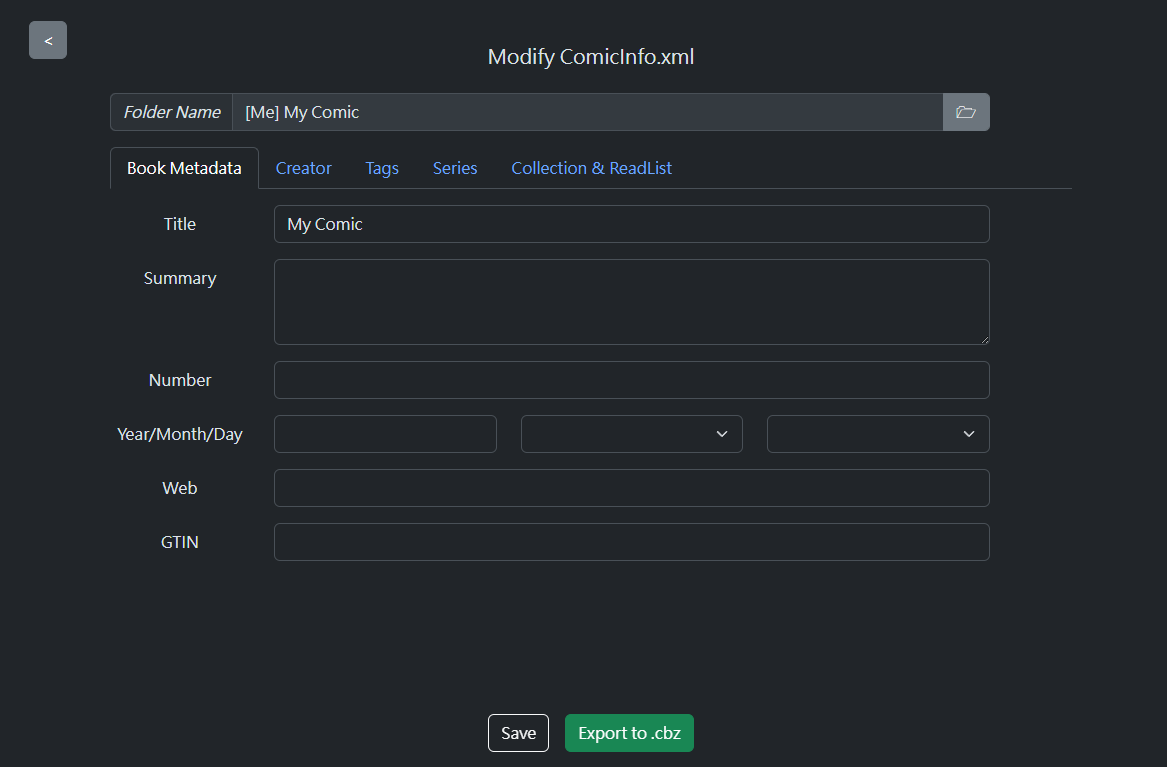
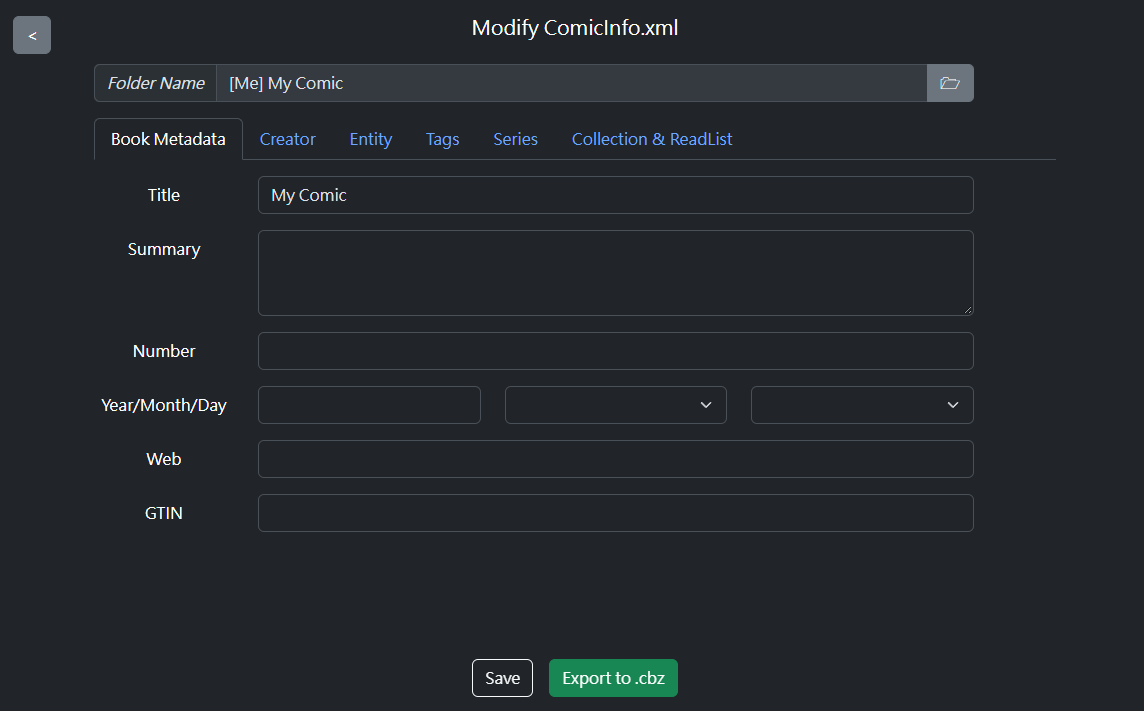
New tab for edit Characters, Teams, Locations (#218)
* Create new metadata tab for entity

* Update README and screenshots for new tab

diff --git a/frontend/src/pages/metadata/EntityMetadata.tsx b/frontend/src/pages/metadata/EntityMetadata.tsx
@@ -1,0 +1,54 @@
+// React Component
+import { Form } from "react-bootstrap";
+
+// Project Specified Component
+import OptionFormRow from "@/forms/OptionFormRow";
+import { type MetadataProps } from "@/pages/metadata/MetadataProps";
+import { HistoryResp } from "@bindings/services";
+
+/**
+ * Dummy function to return empty options for default options in `OptionFormRow`.
+ * @returns promise to return an empty `HistoryResp`
+ */
+function emptyOptions(): Promise<HistoryResp> {
+    return new Promise<HistoryResp>((resolve) => {
+        const resp = new HistoryResp();
+        resp.Inputs = [];
+        resp.ErrorMsg = "";
+
+        resolve(resp);
+    });
+}
+
+/** The JSX Element for show/edit entity metadata. */
+export default function EntityMetadata({ comicInfo: info, infoSetter }: Readonly<MetadataProps>) {
+    return (
+        <div>
+            <Form>
+                <OptionFormRow
+                    title={"Characters"}
+                    value={info?.Characters}
+                    setValue={(val) => infoSetter("Characters", val)}
+                    getDefaultOpt={emptyOptions}
+                    componentHeight="120px"
+                />
+
+                <OptionFormRow
+                    title={"Teams"}
+                    value={info?.Teams}
+                    setValue={(val) => infoSetter("Teams", val)}
+                    getDefaultOpt={emptyOptions}
+                    componentHeight="120px"
+                />
+
+                <OptionFormRow
+                    title={"Locations"}
+                    value={info?.Locations}
+                    setValue={(val) => infoSetter("Locations", val)}
+                    getDefaultOpt={emptyOptions}
+                    componentHeight="120px"
+                />
+            </Form>
+        </div>
+    );
+}

diff --git a/frontend/src/pages/InputComicInfoPage.tsx b/frontend/src/pages/InputComicInfoPage.tsx
@@ -8,6 +8,7 @@ import FolderNameDisplay from "@/components/FolderDisplay";
 import { type ModalControl } from "@/controls/ModalControl";
 import BookMetadata from "@/pages/metadata/BookMetadata";
 import CreatorMetadata from "@/pages/metadata/CreatorMetadata";
+import EntityMetadata from "@/pages/metadata/EntityMetadata";
 import MiscMetadata from "@/pages/metadata/MiscMetadata";
 import SeriesMetadata from "@/pages/metadata/SeriesMetadata";
 import TagMetadata from "@/pages/metadata/TagMetadata";
@@ -80,6 +81,10 @@ export default function InputComicInfoPage({
 
                 <Tab eventKey="Creator" title="Creator">
                     <CreatorMetadata comicInfo={comicInfo} infoSetter={infoSetter} />
+                </Tab>
+
+                <Tab eventKey="Entity" title="Entity">
+                    <EntityMetadata comicInfo={comicInfo} infoSetter={infoSetter} />
                 </Tab>
 
                 <Tab eventKey="Tags" title="Tags">

diff --git a/README.md b/README.md
@@ -18,6 +18,7 @@ Currently, this project supports fields:
 
 - `Title`, `Number`, `Summary`, `Year/Month/Day`, `Web`, `GTIN`
 - ALL Creator fields: `Writer`, `Translator` .etc
+- `Characters`, `Teams`, `Locations` (Notable Entity)
 - `Tags` with GUI to edit & view
 - `Series`, `Volume`, `Count`
 - `AgeRating`, `Manga` with Enum values supported
